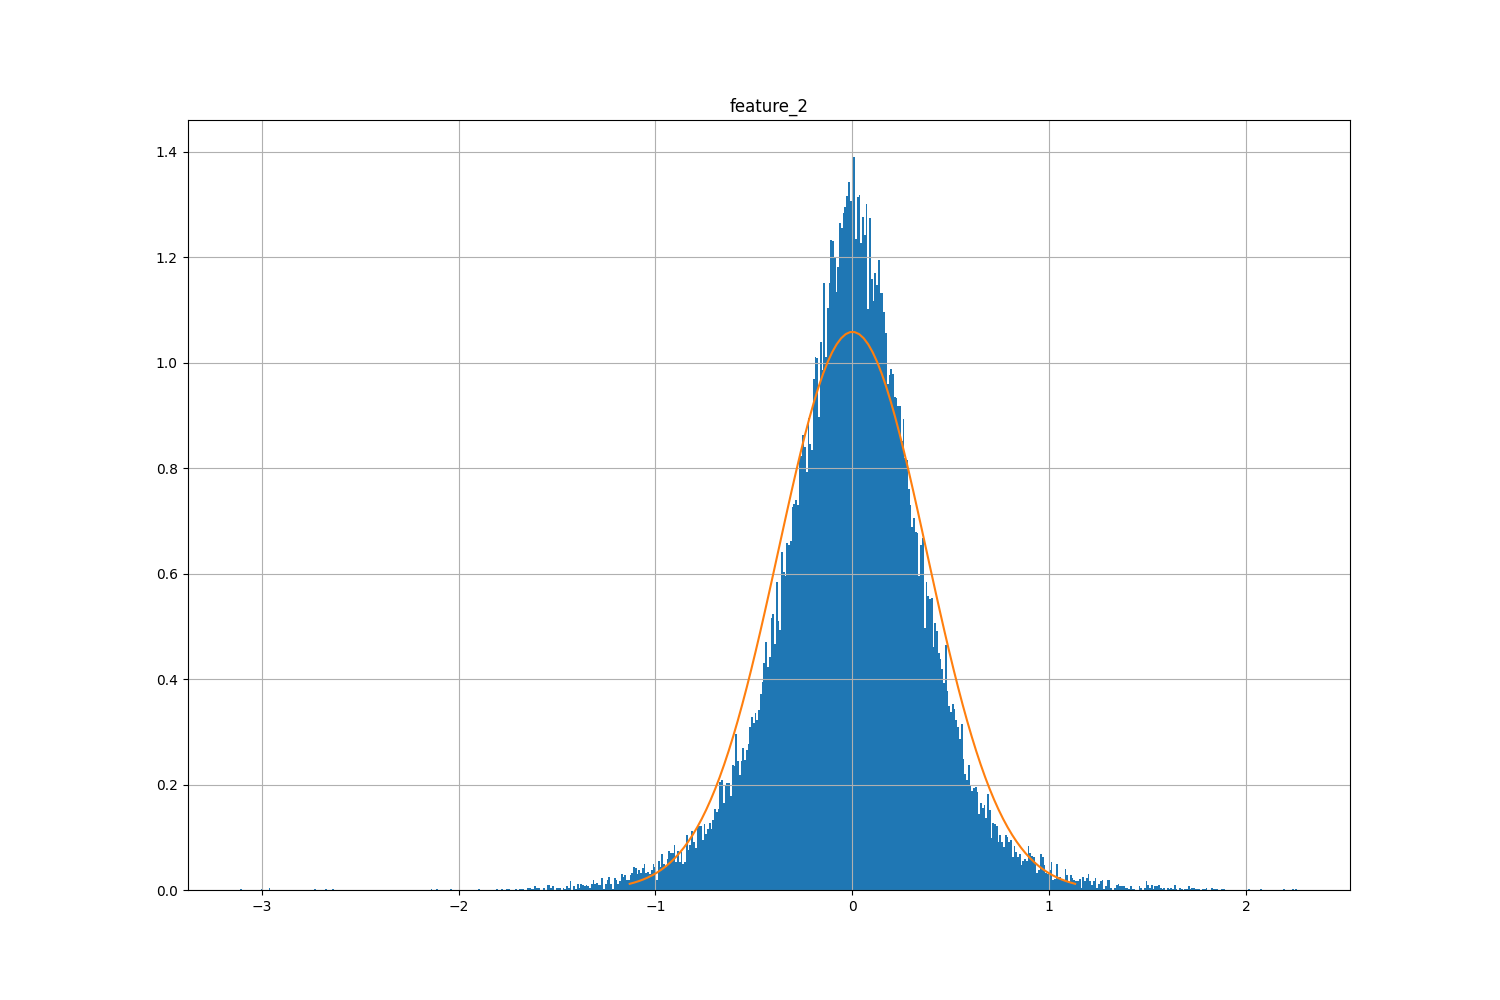
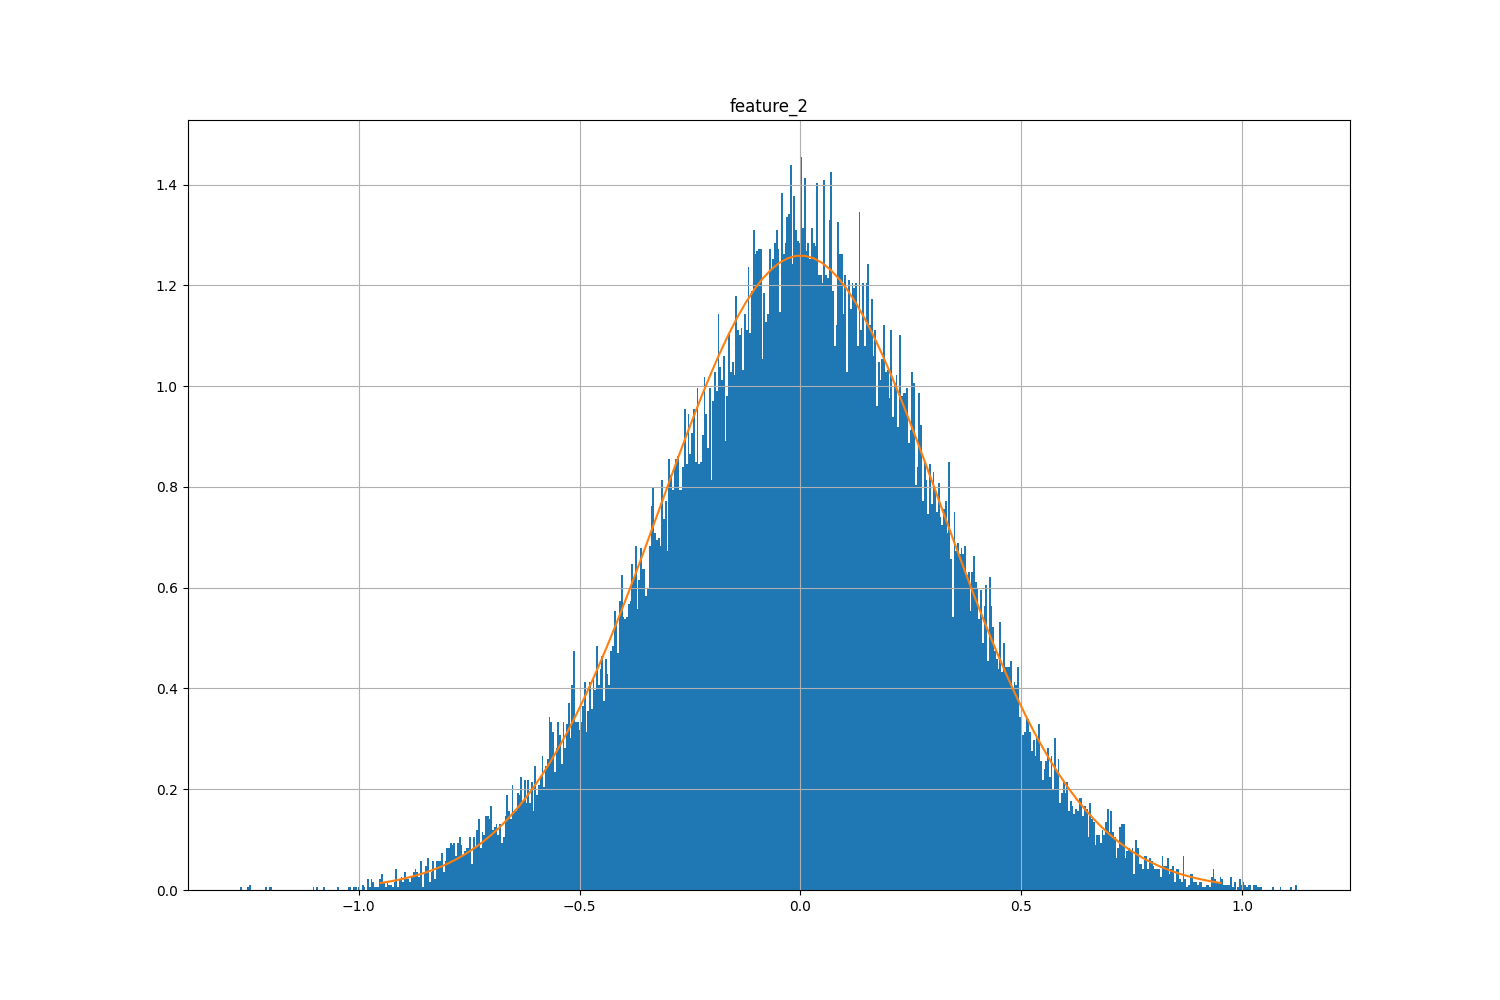
fix: gaussianization back to overwriting f_matrix

diff --git a/src/class_.py b/src/class_.py
@@ -144,16 +144,14 @@ class Data:
 
             def moments(x, col):
                 f_local_epoch = x[col]
-                mn = f_local_epoch.mean()
                 std = f_local_epoch.std()
-                skew = scipy.stats.skew(f_local_epoch)
                 kurt = scipy.stats.kurtosis(f_local_epoch)
-                moments = {"mean": [mn], "std": [std], "skew": [skew], "kurt": [kurt]}
+                moments = {"std": [std], "kurt": [kurt]}
                 return pd.DataFrame(moments)
 
             moments = f_local.groupby("date").apply(lambda x: moments(x, col))
             moments_array = np.array(moments)
-            median_moments = np.median(moments_array, axis=0)  # 4D
+            median_moments = np.median(moments_array, axis=0)
             distance_moments = []
             for i in range(moments_array.shape[0]):
                 moments_array[i, :] -= median_moments
@@ -172,10 +170,9 @@ class Data:
                 x.loc[:, col] = np.squeeze(y)
                 return x
 
-            self.f_matrix_1st_gaussianization = self.f_matrix.copy()
-            self.f_matrix_1st_gaussianization.loc[:, col] = f_local.groupby(
-                "date", group_keys=False
-            ).apply(lambda x: apply_kernel(x, col))
+            self.f_matrix.loc[:, col] = f_local.groupby("date", group_keys=False).apply(
+                lambda x: apply_kernel(x, col)
+            )
         return 0
 
     def detect_outlier_moons(self, norm_method="frobenius", out_method="zscore"):
